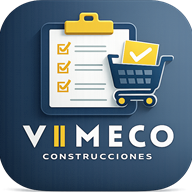
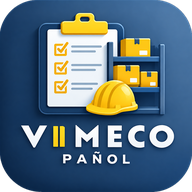
Ícono nuevo de la app y cantidad visible con unidades largas
- Ícono nuevo (favicon, 192, 512), versión maskable propia y apple-touch-icon.
- Renglones de movimiento: la cifra siempre se ve; una unidad larga
  ("Bolsa 25 kg") se recorta con "…" y entera queda en "Hay …".

diff --git a/panol.html b/panol.html
@@ -6,6 +6,7 @@
   <title>VIMECO Pañol</title>
   <link rel="stylesheet" href="css/styles.css">
   <link rel="icon" type="image/png" href="icono_app.png">
+  <link rel="apple-touch-icon" href="icons/apple-touch-icon.png">
   <link rel="manifest" href="manifest.json">
   <meta name="theme-color" content="#1a3a5c">
   <meta name="apple-mobile-web-app-capable" content="yes">
@@ -144,8 +145,9 @@
     .pn-line .nuevo { color: #1a7f3c; font-weight: 700; }
     .pn-qty { display: flex; align-items: center; background: #fff; border: 1.5px solid var(--gray-300); border-radius: 10px; overflow: hidden; }
     .pn-qty:focus-within { border-color: var(--primary-light); }
-    .pn-qty input { width: 100%; min-width: 0; border: 0; outline: 0; padding: .45rem .3rem .45rem .5rem; font: inherit; font-size: 16px; text-align: right; font-variant-numeric: tabular-nums; background: transparent; }
-    .pn-qty span { font-size: .72rem; color: var(--gray-500); padding-right: .45rem; white-space: nowrap; }
+    /* La cifra siempre se ve: una unidad larga ("Bolsa 25 kg") se recorta, y entera está en "Hay ..." debajo del nombre. */
+    .pn-qty input { width: 100%; min-width: 3.2em; flex: 1 1 auto; border: 0; outline: 0; padding: .45rem .3rem .45rem .5rem; font: inherit; font-size: 16px; text-align: right; font-variant-numeric: tabular-nums; background: transparent; }
+    .pn-qty span { font-size: .72rem; color: var(--gray-500); padding-right: .45rem; white-space: nowrap; min-width: 0; overflow: hidden; text-overflow: ellipsis; }
     .pn-x { width: 30px; height: 30px; border-radius: 999px; border: none; background: transparent; color: var(--gray-400); display: grid; place-items: center; cursor: pointer; }
     .pn-x:hover { background: #fde6e6; color: #b02a2a; }
     .pn-x .icon { width: 14px; height: 14px; }

diff --git a/index.html b/index.html
@@ -6,6 +6,7 @@
   <title>VIMECO Pañol — Ingresar</title>
   <link rel="stylesheet" href="css/styles.css">
   <link rel="icon" type="image/png" href="icono_app.png">
+  <link rel="apple-touch-icon" href="icons/apple-touch-icon.png">
   <link rel="manifest" href="manifest.json">
   <meta name="theme-color" content="#1a3a5c">
   <meta name="apple-mobile-web-app-capable" content="yes">
